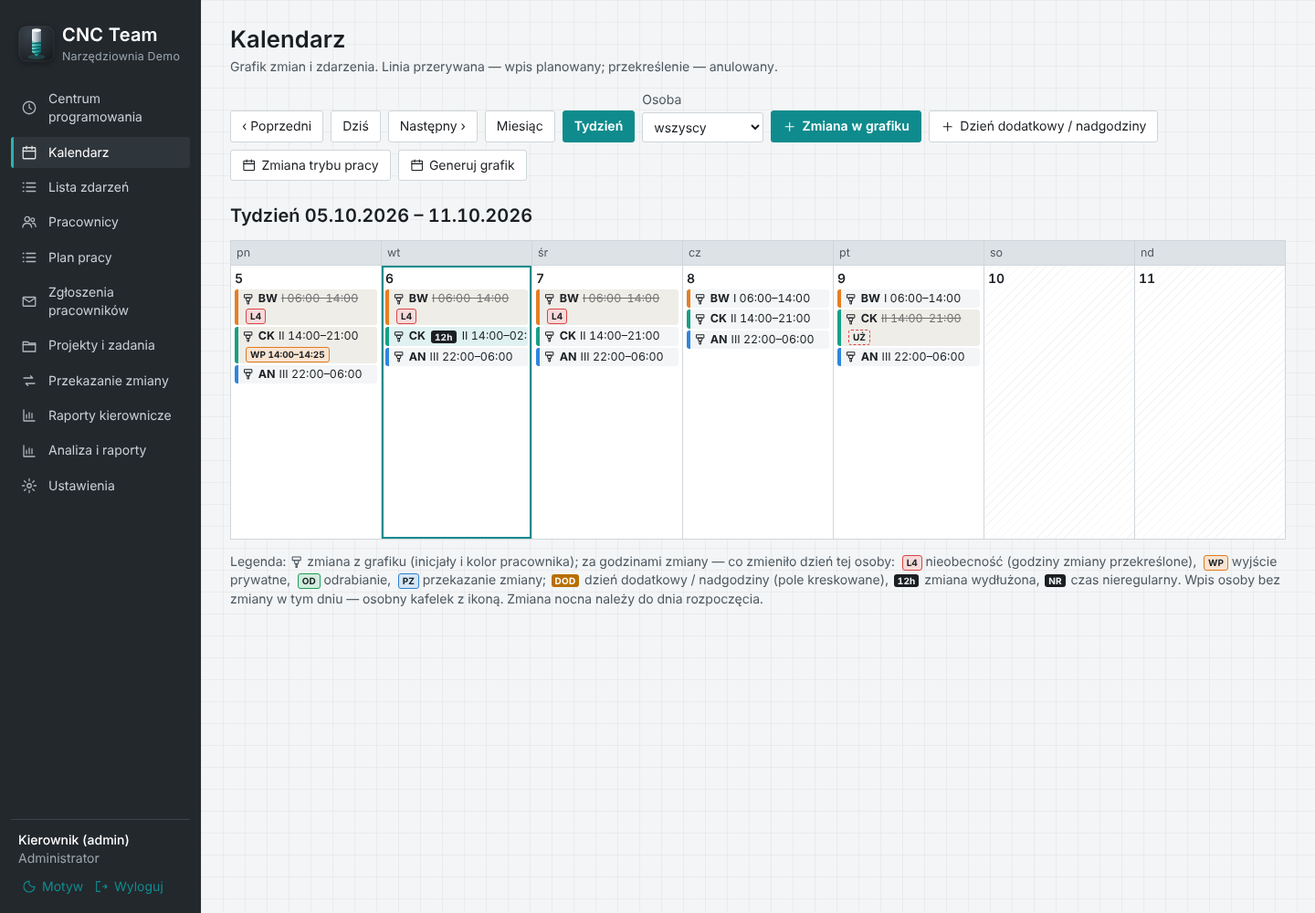
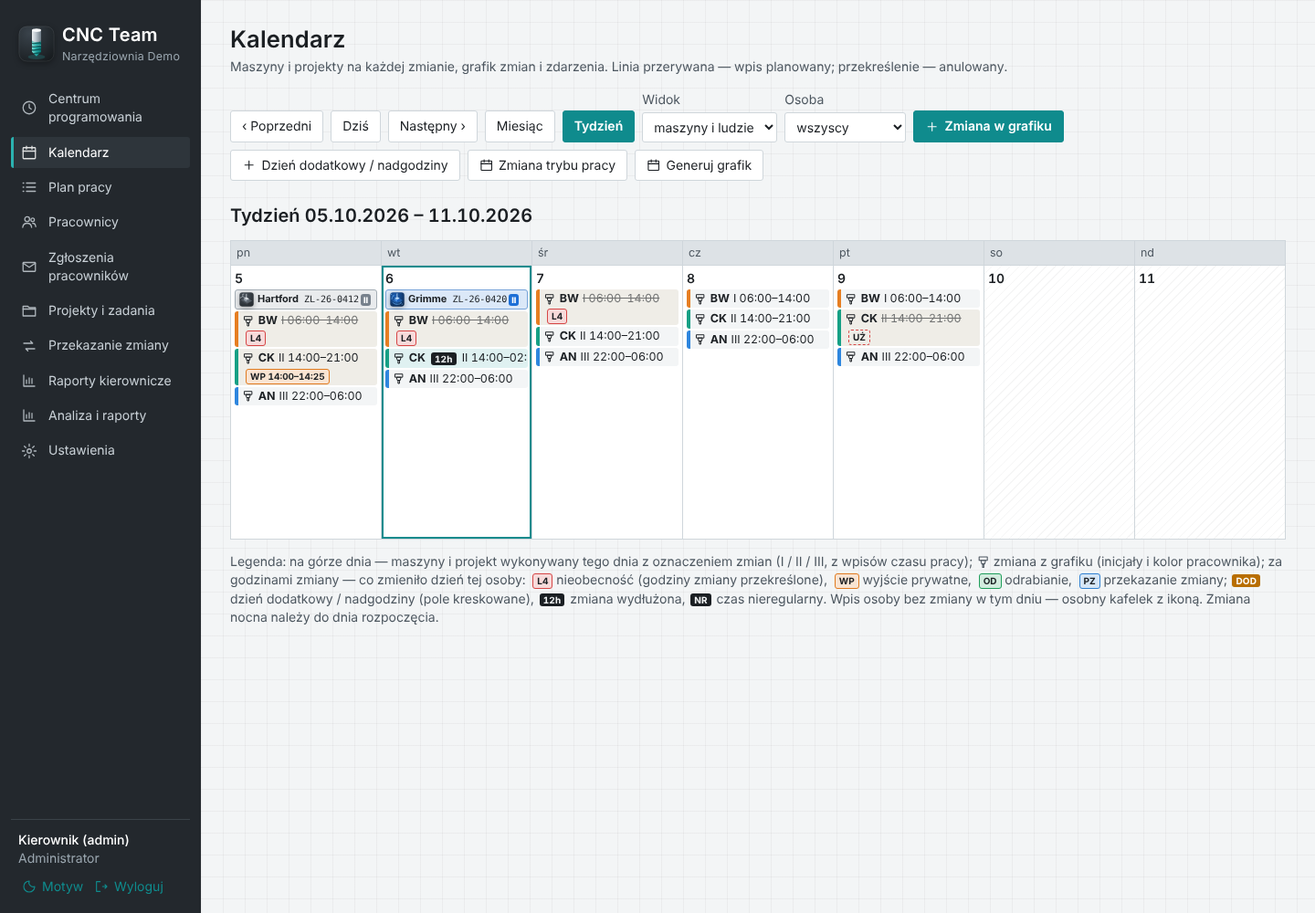
Wersja 0.11: nowa organizacja — projekty pod maszynami w Centrum programowania (data i zmiana rozpoczęcia), kalendarz maszyn i zmian, lista zdarzeń w Pracownikach, programista tylko zgłoszenia / kalendarz / plan pracy (serwer)
Claude-Session: https://claude.ai/code/session_01Mgo9RDb6yKEqWF3PSmGbbJ

diff --git a/public/app.js b/public/app.js
@@ -7,30 +7,33 @@ const isAdmin = () => S.me && S.me.role === 'admin';
 const isEmployee = () => S.me && S.me.role === 'employee';
 const isGuest = () => S.me && S.me.role === 'guest';
 
+const notEmp = () => S.me && S.me.role !== 'employee' && S.me.role !== 'guest';
 const NAV = [
-  ['dzisiaj', 'Centrum programowania', 'today', null],
+  ['dzisiaj', 'Centrum programowania', 'today', notEmp],
   ['kalendarz', 'Kalendarz', 'calendar', null],
-  ['zdarzenia', 'Lista zdarzeń', 'list', null],
-  ['pracownicy', 'Pracownicy', 'users', null],
-  ['zglos', 'Zgłoś kierownikowi', 'summons', () => isEmployee()],
   ['plan', 'Plan pracy', 'list', () => S.me && S.me.role !== 'guest'],
-  ['wyjscia', 'Wyjścia i odrabianie', 'exit', null],
-  ['zgloszenia', 'Zgłoszenia pracowników', 'summons', 'write'],
+  ['zglos', 'Zgłoś kierownikowi', 'summons', () => isEmployee()],
+  ['pracownicy', 'Pracownicy', 'users', notEmp],
+  ['zdarzenia', 'Lista zdarzeń', 'list', notEmp],
+  ['wyjscia', 'Wyjścia i odrabianie', 'exit', notEmp],
   ['absencje', 'Urlopy i absencje', 'leave', 'view.leave.all'],
-  ['projekty', 'Projekty i zadania', 'project', null],
-  ['maszyny', 'Tablica maszyn', 'board', null],
-  ['przekazanie', 'Przekazanie zmiany', 'handover', null],
+  ['zgloszenia', 'Zgłoszenia pracowników', 'summons', 'write'],
+  ['projekty', 'Projekty i zadania', 'project', notEmp],
+  ['maszyny', 'Tablica maszyn', 'board', notEmp],
+  ['przekazanie', 'Przekazanie zmiany', 'handover', notEmp],
   ['raporty', 'Raporty kierownicze', 'report', 'view.reports'],
   ['analiza', 'Analiza i raporty', 'report', () => S.me && (S.me.role === 'admin' || S.me.role === 'supervisor')],
   ['ustawienia', 'Ustawienia', 'settings', null],
 ];
+// Programista: tylko zgłoszenia, kalendarz i plan pracy (oraz własne konto) — reszta dla kierownika
+const EMP_ROUTES = new Set(['plan', 'kalendarz', 'zglos', 'ustawienia']);
 
 // Nie w menu bocznym: urlopy i wyjścia są zakładkami w „Pracownicy”; tablica maszyn powielała Centrum programowania.
-const RAIL_HIDDEN = new Set(['wyjscia', 'absencje', 'maszyny']);
-const NAV_PARENT = { wyjscia: 'pracownicy', absencje: 'pracownicy', zestaw: 'analiza', raport: 'analiza' };
+const RAIL_HIDDEN = new Set(['wyjscia', 'absencje', 'maszyny', 'zdarzenia']);
+const NAV_PARENT = { wyjscia: 'pracownicy', absencje: 'pracownicy', zdarzenia: 'pracownicy', zestaw: 'analiza', raport: 'analiza' };
 // Zakładki widoku Pracownicy (przełączane w tym samym menu)
 function peopleTabs(active) {
-  const tabs = [['pracownicy', 'Pracownicy', 'users'], ...(can('view.leave.all') ? [['absencje', 'Urlopy i absencje', 'leave']] : []), ['wyjscia', 'Wyjścia i odrabianie', 'exit']];
+  const tabs = [['pracownicy', 'Pracownicy', 'users'], ...(can('view.leave.all') ? [['absencje', 'Urlopy i absencje', 'leave']] : []), ['wyjscia', 'Wyjścia i odrabianie', 'exit'], ['zdarzenia', 'Lista zdarzeń', 'list']];
   return `<nav class="section-tabs" aria-label="Pracownicy">${tabs.map(([id, l, ic]) => `<a href="#/${id}" class="${id === active ? 'active' : ''}" ${id === active ? 'aria-current="page"' : ''}>${icon(ic)}<span>${esc(l)}</span></a>`).join('')}</nav>`;
 }
 
@@ -90,7 +93,7 @@ function renderLogin() {
 function renderShell() {
   const roleName = { admin: 'Administrator', supervisor: 'Przełożony', employee: 'Pracownik', guest: 'Gość' }[S.me.role];
   const tabs = isGuest() ? [['status', 'Status', 'project']]
-    : isEmployee() ? [['dzisiaj', 'Dzisiaj', 'today'], ['plan', 'Polecenia', 'list'], ['zglos', 'Zgłoś', 'summons'], ['projekty', 'Projekty', 'project']]
+    : isEmployee() ? [['plan', 'Polecenia', 'list'], ['kalendarz', 'Kalendarz', 'calendar'], ['zglos', 'Zgłoś', 'summons']]
       : [['dzisiaj', 'Dzisiaj', 'today'], ['plan', 'Plan pracy', 'list'], ['kalendarz', 'Kalendarz', 'calendar'], ['projekty', 'Projekty', 'project']];
   const nav = isGuest() ? [['status', 'Status projektów', 'project', null], ['ustawienia', 'Moje konto', 'settings', null]] : NAV.filter(n => !RAIL_HIDDEN.has(n[0]) && (typeof n[3] === 'function' ? n[3]() : (!n[3] || can(n[3]))));
   $('#app').innerHTML = `<div class="shell">
@@ -99,7 +102,7 @@ function renderShell() {
     <div class="scrim" id="scrim" hidden></div>
     <nav class="rail" id="rail" aria-label="Menu główne">
     <div class="brand">${appLogo(40)}<div>CNC Team<small>${esc(S.boot.settings.company_name || '')}</small></div></div>
-    ${nav.map(([id, label, ic]) => `<a href="#/${id}" data-nav="${id}">${icon(ic)}<span>${esc(label)}</span></a>`).join('')}
+    ${nav.map(([id, label, ic]) => `<a href="#/${id}" data-nav="${id}">${icon(ic)}<span>${esc(id === 'ustawienia' && !isAdmin() ? 'Moje konto' : label)}</span></a>`).join('')}
     <div class="who"><strong>${esc(S.me.display_name)}</strong>${esc(roleName)}<br>
       <button type="button" id="themeBtn" class="link">${icon('theme')}Motyw</button>
       <button type="button" id="installBtn" class="link ${document.documentElement.dataset.installable ? '' : 'mobile-only'}">${icon('download')}Skrót na telefonie</button>
@@ -128,8 +131,9 @@ function renderShell() {
 const VIEWS = {};
 async function route() {
   if (!S.me) return;
-  let [name, ...rest] = (location.hash.replace(/^#\/?/, '').split('?')[0] || (isGuest() ? 'status' : 'dzisiaj')).split('/');
+  let [name, ...rest] = (location.hash.replace(/^#\/?/, '').split('?')[0] || (isGuest() ? 'status' : isEmployee() ? 'plan' : 'dzisiaj')).split('/');
   if (isGuest() && name !== 'ustawienia') name = 'status';
+  if (isEmployee() && !EMP_ROUTES.has(name)) name = 'plan';
   $$('[data-nav]').forEach(a => a.classList.toggle('active', a.dataset.nav === (NAV_PARENT[name] || name)));
   const navItem = isGuest() ? (name === 'status' ? ['status', 'Status projektów'] : ['ustawienia', 'Moje konto']) : NAV.find(n => n[0] === name);
   if ($('#appbarTitle')) $('#appbarTitle').textContent = navItem ? navItem[1] : 'CNC Team';
@@ -157,8 +161,9 @@ VIEWS.dzisiaj = async (main) => {
   const alerts = (d.alerts || []).map(a => `<li>${icon('alert')} ${esc(a.message)}${a.remaining_min != null ? ` <b>${hm(a.remaining_min)}</b> pozostało, zmian do końca miesiąca: ${a.remaining_shifts ?? '—'}` : ''}</li>`).join('');
   const reminders = (d.leave_reminders || []).map(r => `<li>${r.level === 'ostrzezenie' ? tag('ostrzeżenie', 'warn', 'alert') : tag('przypomnienie', 'accent')} ${esc(r.name)}: pula ${r.year}, saldo ${hm(r.balance_min)}. <span class="muted">${esc(r.text)}</span></li>`).join('');
   main.innerHTML = head('Centrum programowania', `Dzisiaj: ${plDate(d.today)} · strefa Europe/Warsaw`) + `
-    <div class="machines">${d.board.map(plate).join('')}</div>
-    <div class="cols" style="margin-top:var(--sp-4)">
+    <div class="machines">${d.board.map(b => `<div class="machine-col">${plate(b)}${isAdmin() ? `<p class="small no-print" style="margin:4px 0 0"><a href="#/maszyny">${icon('board')}Zmień kartę maszyny (projekt, etap, osoba)</a></p>` : ''}${b.project_full ? projectCard(b.project_full, { start: b.project_start, heading: `Aktualnie na ${b.machine.name}` }) : `<section class="panel"><p class="muted small">Brak projektu na tej maszynie.</p></section>`}</div>`).join('')}</div>
+    <h2 class="section-h">Pozostałe informacje</h2>
+    <div class="cols">
       <section class="panel"><h3>Na zmianie dziś</h3><ul class="plain">${shifts || '<li class="muted">Brak zmian w grafiku.</li>'}</ul></section>
       <section class="panel"><h3>Nieobecności dziś</h3><ul class="plain">${abs || '<li class="muted">Brak nieobecności.</li>'}</ul></section>
       ${d.my_orders ? `<section class="panel"><h3>Moje polecenia na dziś</h3><ol class="orders">${d.my_orders.map(o => orderCard(o, { mine: true })).join('') || '<li class="muted small empty-orders">Brak poleceń na dziś.</li>'}</ol>
@@ -209,10 +214,18 @@ VIEWS.kalendarz = async (main) => {
   if (mode === 'tydzien') { from = addDays(anchor, 1 - weekday(anchor)); to = addDays(from, 6); }
   else { from = addDays(`${anchor.slice(0, 7)}-01`, 1 - weekday(`${anchor.slice(0, 7)}-01`)); to = addDays(lastDay(anchor.slice(0, 7)), 7 - weekday(lastDay(anchor.slice(0, 7)))); }
   const qs = `from=${from}&to=${to}${empF ? `&employee_id=${empF}` : ''}`;
-  const [sched, events] = await Promise.all([api(`/schedule?${qs}`), api(`/events?${qs}`)]);
+  const view = ['maszyny', 'ludzie'].includes(q.get('widok')) ? q.get('widok') : 'wszystko';
+  const [sched, events, mcal] = await Promise.all([api(`/schedule?${qs}`), api(`/events?${qs}`), view !== 'ludzie' ? api(`/calendar/machines?from=${from}&to=${to}`) : Promise.resolve([])]);
+  const machineRows = (d) => S.boot.machines.map(m => {
+    const items = mcal.filter(x => x.date === d && x.machine_id === m.id);
+    if (!items.length) return '';
+    const th = machineTheme(m);
+    const tip = items.map(i => `${i.order_no} ${i.part_no}: ${i.shifts.map(sh => `zmiana ${sh.short} (${sh.employees.map(id => { const e = S.emp.get(id); return e ? `${e.first_name} ${e.last_name}` : ''; }).join(', ')})`).join('; ')}`).join(' | ');
+    return `<div class="mc-row theme-${th}" title="${esc(`${m.name}: ${tip}`)}">${machineEmblem(th, 16)}<b>${esc(m.name)}</b>${items.map(i => `<span class="mc-item"><span class="mono">${esc(i.order_no)}</span>${i.shifts.map(sh => `<i>${esc(sh.short)}</i>`).join('')}</span>`).join('')}</div>`;
+  }).join('');
   const holidays = new Map(S.boot.holidays.map(h => [h.date, h.name]));
   const tpl = new Map(S.boot.shift_templates.map(t => [t.id, t]));
-  const link = (o) => { const p = new URLSearchParams({ tryb: mode, data: anchor, osoba: empF, ...o }); return `#/kalendarz?${p}`; };
+  const link = (o) => { const p = new URLSearchParams({ tryb: mode, data: anchor, osoba: empF, widok: q.get('widok') || 'wszystko', ...o }); return `#/kalendarz?${p}`; };
   const step = mode === 'tydzien' ? 7 : 0;
   const prev = mode === 'tydzien' ? addDays(anchor, -7) : `${addMonths(anchor.slice(0, 7), -1)}-01`;
   const next = mode === 'tydzien' ? addDays(anchor, step) : `${addMonths(anchor.slice(0, 7), 1)}-01`;
@@ -222,21 +235,24 @@ VIEWS.kalendarz = async (main) => {
     const daySched = sched.filter(s => s.work_date === d);
     const dayEv = events.filter(e => e.date <= d && (e.end_date || e.date) >= d);
     const off = holidays.has(d) || weekday(d) >= 6;
-    const empty = !daySched.length && !dayEv.length && !holidays.has(d) && d !== S.me.today;
+    const empty = !daySched.length && !dayEv.length && !mcal.some(x => x.date === d) && !holidays.has(d) && d !== S.me.today;
     cells += `<div class="day ${mode === 'miesiac' && d.slice(0, 7) !== anchor.slice(0, 7) ? 'other' : ''} ${off ? 'off' : ''} ${d === S.me.today ? 'today' : ''} ${empty ? 'empty-day' : ''}">
       <div class="num" data-dow="${DOW[weekday(d) - 1]}, ${plDate(d)}"><span class="desk-only">${Number(d.slice(8))}</span>${holidays.has(d) ? `<em>${esc(holidays.get(d))}</em>` : ''}</div>
-      ${daySched.map(s => shiftChip(s, tpl, dayEv.filter(ev => ev.employee_id === s.employee_id))).join('')}
-      ${dayEv.filter(ev => !daySched.some(s => s.employee_id === ev.employee_id)).map(ev => { const e = S.emp.get(ev.employee_id); return `<div class="chip ev ${ev.status === 'anulowana' || ev.status === 'anulowane' ? 'cancel' : ''} ${ev.status === 'planowana' || ev.status === 'planowane' ? 'plan' : ''}" style="border-left-color:${esc(e?.color || '#888')}" title="${esc(ev.label)} ${esc(ev.status || '')}">${icon(ev.icon && ICON_PATHS[ev.icon] ? ev.icon : EVENT_ICON[ev.kind])}<b>${esc(initials(e))}</b> ${esc(ev.short || '')} ${esc(ev.time || ev.label)}</div>`; }).join('')}
+      ${view !== 'ludzie' ? machineRows(d) : ''}
+      ${view !== 'maszyny' ? daySched.map(s => shiftChip(s, tpl, dayEv.filter(ev => ev.employee_id === s.employee_id))).join('') : ''}
+      ${view === 'maszyny' ? '' : ''}${dayEv.filter(ev => view !== 'maszyny' && !daySched.some(s => s.employee_id === ev.employee_id)).map(ev => { const e = S.emp.get(ev.employee_id); return `<div class="chip ev ${ev.status === 'anulowana' || ev.status === 'anulowane' ? 'cancel' : ''} ${ev.status === 'planowana' || ev.status === 'planowane' ? 'plan' : ''}" style="border-left-color:${esc(e?.color || '#888')}" title="${esc(ev.label)} ${esc(ev.status || '')}">${icon(ev.icon && ICON_PATHS[ev.icon] ? ev.icon : EVENT_ICON[ev.kind])}<b>${esc(initials(e))}</b> ${esc(ev.short || '')} ${esc(ev.time || ev.label)}</div>`; }).join('')}
     </div>`;
   }
-  main.innerHTML = head('Kalendarz', 'Grafik zmian i zdarzenia. Linia przerywana — wpis planowany; przekreślenie — anulowany.',
+  main.innerHTML = head('Kalendarz', 'Maszyny i projekty na każdej zmianie, grafik zmian i zdarzenia. Linia przerywana — wpis planowany; przekreślenie — anulowany.',
     `<a class="btn" href="${link({ data: prev })}">‹ Poprzedni</a><a class="btn" href="${link({ data: S.me.today })}">Dziś</a><a class="btn" href="${link({ data: next })}">Następny ›</a>
      <a class="btn ${mode === 'miesiac' ? 'primary' : ''}" href="${link({ tryb: 'miesiac' })}">Miesiąc</a><a class="btn ${mode === 'tydzien' ? 'primary' : ''}" href="${link({ tryb: 'tydzien' })}">Tydzień</a>
+     <label class="field">Widok<select id="calView"><option value="wszystko" ${view === 'wszystko' ? 'selected' : ''}>maszyny i ludzie</option><option value="maszyny" ${view === 'maszyny' ? 'selected' : ''}>tylko maszyny</option><option value="ludzie" ${view === 'ludzie' ? 'selected' : ''}>tylko ludzie</option></select></label>
      <label class="field">Osoba<select id="calEmp"><option value="">wszyscy</option>${empOptions().map(([v, l]) => `<option value="${v}" ${String(v) === empF ? 'selected' : ''}>${esc(l)}</option>`).join('')}</select></label>
      ${isAdmin() ? btn('addShift', 'Zmiana w grafiku') + btn('extraShift', 'Dzień dodatkowy / nadgodziny', 'plus', '') + btn('bulkMode', 'Zmiana trybu pracy', 'calendar', '') + btn('genShift', 'Generuj grafik', 'calendar', '') : ''}`) +
     `<h2>${esc(title)}</h2><div class="cal ${mode === 'tydzien' ? 'week' : ''}">${cells}</div>
-     <p class="small muted">Legenda: ${icon('spindle')} zmiana z grafiku (inicjały i kolor pracownika); za godzinami zmiany — co zmieniło dzień tej osoby: <span class="ev-tag tone-l4">L4</span> nieobecność (godziny zmiany przekreślone), <span class="ev-tag tone-force">WP</span> wyjście prywatne, <span class="ev-tag tone-uw">OD</span> odrabianie, <span class="ev-tag tone-event">PZ</span> przekazanie zmiany; <span class="mode-badge dod">DOD</span> dzień dodatkowy / nadgodziny (pole kreskowane), <span class="mode-badge">12h</span> zmiana wydłużona, <span class="mode-badge">NR</span> czas nieregularny. Wpis osoby bez zmiany w tym dniu — osobny kafelek z ikoną. Zmiana nocna należy do dnia rozpoczęcia.</p>`;
+     <p class="small muted">Legenda: na górze dnia — maszyny i projekt wykonywany tego dnia z oznaczeniem zmian (I / II / III, z wpisów czasu pracy); ${icon('spindle')} zmiana z grafiku (inicjały i kolor pracownika); za godzinami zmiany — co zmieniło dzień tej osoby: <span class="ev-tag tone-l4">L4</span> nieobecność (godziny zmiany przekreślone), <span class="ev-tag tone-force">WP</span> wyjście prywatne, <span class="ev-tag tone-uw">OD</span> odrabianie, <span class="ev-tag tone-event">PZ</span> przekazanie zmiany; <span class="mode-badge dod">DOD</span> dzień dodatkowy / nadgodziny (pole kreskowane), <span class="mode-badge">12h</span> zmiana wydłużona, <span class="mode-badge">NR</span> czas nieregularny. Wpis osoby bez zmiany w tym dniu — osobny kafelek z ikoną. Zmiana nocna należy do dnia rozpoczęcia.</p>`;
   $('#calEmp').onchange = (e) => { location.hash = link({ osoba: e.target.value }); };
+  $('#calView').onchange = (e) => { location.hash = link({ widok: e.target.value }); };
   on('addShift', () => shiftForm(anchor));
   on('genShift', () => generateForm(anchor));
   on('extraShift', () => extraShiftForm(anchor));

diff --git a/public/views-projects.js b/public/views-projects.js
@@ -17,14 +17,7 @@ VIEWS.projekty = async (main, rest) => {
   const sel = (name, label, opts) => `<label class="field">${label}<select name="${name}"><option value="">wszystkie</option>${opts.map(([v, l]) => `<option value="${esc(v)}" ${String(v) === (q.get(name) || '') ? 'selected' : ''}>${esc(l)}</option>`).join('')}</select></label>`;
   main.innerHTML = head('Projekty i zadania', 'Postęp wynika z zakończonych zadań o jawnych wagach, nie z upływu czasu.', isAdmin() ? btn('addPrj', 'Nowy projekt') : '') +
     `<form class="panel toolbar" id="pf">${sel('machine_id', 'Maszyna', machineOptions())}${sel('status', 'Status', [['aktywny', 'aktywny'], ['wstrzymany', 'wstrzymany'], ['zakonczony', 'zakończony'], ['anulowany', 'anulowany']])}${sel('employee_id', 'Osoba', empOptions(false))}<button class="primary">Filtruj</button></form>
-    <div class="cols">${list.map(p => `<article class="panel">
-      <div class="page-head" style="margin:0 0 var(--sp-2)"><div><h3 style="margin:0"><a href="#/projekty/${encodeURIComponent(p.id)}">${projectRef(p)}</a></h3><span class="small muted">${esc(p.id)} · ${esc(p.part_family || 'bez rodziny')}</span></div>
-      </div>
-      ${bars(p)}${delayLine(p.schedule)}
-      <p class="small" style="margin:var(--sp-2) 0 0">Termin: <b>${plDate(p.due_date)}</b> · priorytet ${p.priority} · ${p.nc_program ? `<span class="mono">${esc(p.nc_program)} rev ${esc(p.nc_rev)}</span>` : 'brak programu NC'}
-      ${p.blocked ? `<br>${tag(p.block_reason, 'danger', 'block')}` : ''}${p.tasks.some(t => t.status === 'zablokowane') ? `<br>${tag('zablokowane zadanie', 'warn', 'alert')}` : ''}</p>
-      <p class="small" style="margin:var(--sp-2) 0 0">${p.responsible_ids.map(id => person(id, { name: false })).join(' ')} ${esc(p.status)}</p>
-    </article>`).join('') || '<div class="empty">Brak projektów.</div>'}</div>`;
+    <div class="cols">${list.map(p => projectCard(p)).join('') || '<div class="empty">Brak projektów.</div>'}</div>`;
   $('#pf').onsubmit = (e) => { e.preventDefault(); location.hash = `#/projekty?${new URLSearchParams([...new FormData(e.target)].filter(([, v]) => v))}`; };
   on('addPrj', () => projectForm());
 };
@@ -51,6 +44,19 @@ function projectForm(p = {}) {
       return r;
     },
   });
+}
+
+// Karta projektu — ta sama w „Projekty i zadania” i pod maszyną w Centrum programowania; start = kiedy i na której zmianie się zaczął
+function projectCard(p, { start = null, heading = '' } = {}) {
+  const st = start ? `<p class="small start-line">${icon('calendar')} Rozpoczęty: <b>${DOW[weekday(start.date) - 1]} ${plDate(start.date)}</b>${start.shift ? ` · zmiana <b>${esc(start.shift.short || '')}</b> ${esc(start.shift.start)}–${esc(start.shift.end)}` : start.source === 'czas' ? ' · poza grafikiem' : ''}${start.employee_id ? ` · ${person(start.employee_id)}` : ''}${start.source === 'projekt' ? ' <span class="muted">(data rozpoczęcia z projektu — brak wpisów czasu)</span>' : ''}</p>` : '';
+  return `<article class="panel">${heading ? `<p class="small muted card-kicker">${esc(heading)}</p>` : ''}
+      <div class="page-head" style="margin:0 0 var(--sp-2)"><div><h3 style="margin:0"><a href="#/projekty/${encodeURIComponent(p.id)}">${projectRef(p)}</a></h3><span class="small muted">${esc(p.id)} · ${esc(p.part_family || 'bez rodziny')}</span></div>
+      </div>
+      ${st}${bars(p)}${delayLine(p.schedule)}
+      <p class="small" style="margin:var(--sp-2) 0 0">Termin: <b>${plDate(p.due_date)}</b> · priorytet ${p.priority} · ${p.nc_program ? `<span class="mono">${esc(p.nc_program)} rev ${esc(p.nc_rev)}</span>` : 'brak programu NC'}
+      ${p.blocked ? `<br>${tag(p.block_reason, 'danger', 'block')}` : ''}${p.tasks.some(t => t.status === 'zablokowane') ? `<br>${tag('zablokowane zadanie', 'warn', 'alert')}` : ''}</p>
+      <p class="small" style="margin:var(--sp-2) 0 0">${p.responsible_ids.map(id => person(id, { name: false })).join(' ')} ${esc(p.status)}</p>
+    </article>`;
 }
 
 async function projectDetailView(main, id) {

diff --git a/server/domain/projects.js b/server/domain/projects.js
@@ -391,6 +391,38 @@ function board(db) {
   });
 }
 
+// Początek projektu: pierwszy wpis czasu pracy — dzień, osoba i zmiana z grafiku (gdy brak wpisów — data rozpoczęcia z projektu)
+function projectStart(db, id) {
+  const e = db.get(`SELECT e.work_date, e.employee_id FROM task_time_entries e JOIN tasks t ON t.id = e.task_id WHERE t.project_id = ? ORDER BY e.work_date, e.id LIMIT 1`, id);
+  if (!e) { const p = db.get('SELECT start_date FROM projects WHERE id=?', id); return p ? { date: p.start_date, source: 'projekt' } : null; }
+  const s = db.get(`SELECT s.start_at, s.end_at, t.name, t.short FROM schedule_entries s LEFT JOIN shift_templates t ON t.id = s.shift_template_id
+    WHERE s.employee_id = ? AND s.work_date = ? ORDER BY s.start_at LIMIT 1`, e.employee_id, e.work_date);
+  return { date: e.work_date, employee_id: e.employee_id, source: 'czas',
+    shift: s ? { name: s.name, short: s.short, start: T.utcToLocal(s.start_at).time, end: T.utcToLocal(s.end_at).time } : null };
+}
+
+// Kalendarz maszyn: który projekt był wykonywany na której maszynie danego dnia i na której zmianie (z wpisów czasu pracy i grafiku)
+function machineCalendar(db, from, to) {
+  const rows = db.all(`SELECT e.work_date d, p.machine_id, t.project_id, p.order_no, p.part_no, e.employee_id, SUM(e.active_min + e.verify_min + e.rework_min) w,
+      (SELECT s.shift_template_id FROM schedule_entries s WHERE s.employee_id = e.employee_id AND s.work_date = e.work_date ORDER BY s.start_at LIMIT 1) tpl
+    FROM task_time_entries e JOIN tasks t ON t.id = e.task_id JOIN projects p ON p.id = t.project_id
+    WHERE e.work_date BETWEEN ? AND ? AND p.machine_id IS NOT NULL GROUP BY e.work_date, p.machine_id, t.project_id, e.employee_id ORDER BY e.work_date`, from, to);
+  const tpls = new Map(db.all('SELECT id, short, start_time FROM shift_templates').map(t => [t.id, t]));
+  const out = new Map();
+  for (const r of rows) {
+    const key = `${r.d}|${r.machine_id}|${r.project_id}`;
+    const item = out.get(key) || { date: r.d, machine_id: r.machine_id, project_id: r.project_id, order_no: r.order_no, part_no: r.part_no, shifts: [] };
+    const t = tpls.get(r.tpl);
+    const short = t ? t.short : 'poza grafikiem';
+    let sh = item.shifts.find(x => x.short === short);
+    if (!sh) { sh = { short, start: t ? t.start_time : '99', employees: [], minutes: 0 }; item.shifts.push(sh); }
+    if (!sh.employees.includes(r.employee_id)) sh.employees.push(r.employee_id);
+    sh.minutes += r.w || 0;
+    out.set(key, item);
+  }
+  return [...out.values()].map(i => ({ ...i, shifts: i.shifts.sort((a, b) => a.start.localeCompare(b.start)) }));
+}
+
 function updateBoard(db, user, machineId, body) {
   if (!db.get('SELECT 1 FROM machines WHERE id=?', machineId)) throw notFound();
   const d = {
@@ -489,5 +521,5 @@ function guestStatus(db, id) {
 
 module.exports = {
   CAUSES, saveMachine, saveTaskType, saveProject, setNcRevision, projectDetail, listProjects, createTask, updateTask, changeTaskPlan,
-  addTimeEntry, taskTimes, addExplanation, board, updateBoard, createHandover, listHandovers, addManualTechData, ID_RE, progress, scheduleStatus, scheduleSettings, guestStatus, projectHours, overtimeWork,
+  addTimeEntry, taskTimes, addExplanation, board, updateBoard, createHandover, listHandovers, addManualTechData, ID_RE, progress, scheduleStatus, scheduleSettings, guestStatus, projectHours, overtimeWork, projectStart, machineCalendar,
 };

diff --git a/server/routes.js b/server/routes.js
@@ -424,13 +424,24 @@ function buildRoutes() {
   });
 
   // ---------- Pulpit „Dzisiaj” ----------
+  add('GET', '/calendar/machines', ({ db, user, query }) => {
+    requireCap(user, 'view.calendar');
+    const from = query.from || `${T.today().slice(0, 7)}-01`, to = query.to || T.lastDayOfMonth(from.slice(0, 7));
+    T.assertDate(from); T.assertDate(to);
+    if (T.dateRange(from, to).length > 62) throw bad('Zakres do 62 dni.');
+    // programista widzi temat i zmianę, bez godzin pracy
+    return P.machineCalendar(db, from, to).map(i => user.role === 'employee' ? { ...i, shifts: i.shifts.map(({ minutes, ...x }) => x) } : i);
+  });
   add('GET', '/today', ({ db, user }) => {
     const d = T.today();
     const shifts = People.listSchedule(db, T.addDays(d, -1), d).filter(s => s.work_date === d || s.end_at > T.localToUtc(d, '00:00'))
       .map(s => ({ employee_id: s.employee_id, work_date: s.work_date, start: s.start_local, end: s.end_local, shift_template_id: s.shift_template_id }));
     const absToday = Abs.listAbsences(db, { from: d, to: d }).filter(a => a.status !== 'anulowana').map(a => redactAbsence(user, a));
     const vis = visibleProjects(db, user);
-    const out = { today: d, shifts, absences: absToday, board: P.board(db), handovers: P.listHandovers(db, {}).filter(h => !vis || vis.has(h.project_id)).slice(0, 5) };
+    // projekt na maszynie: pełny licznik jak w „Projekty i zadania” + kiedy i na której zmianie się zaczął
+    const boardFull = P.board(db).map(b => (b.project && user.role !== 'employee'
+      ? { ...b, project_full: P.projectDetail(db, b.project.id, { withTimes: false, withHours: can(user, 'view.efficiency') }), project_start: P.projectStart(db, b.project.id) } : b));
+    const out = { today: d, shifts, absences: absToday, board: boardFull, handovers: P.listHandovers(db, {}).filter(h => !vis || vis.has(h.project_id)).slice(0, 5) };
     if (user.role === 'employee') {
       out.my_orders = O.myOrders(db, user, { from: d, to: d });
       out.my_requests = Req.listRequests(db, { employeeId: user.employee_id, limit: 5 }).map(r => ({ id: r.id, kind: r.kind, date_from: r.date_from, date_to: r.date_to, status: r.status, decision_note: r.decision_note }));

diff --git a/test/requests.test.js b/test/requests.test.js
@@ -134,24 +134,15 @@ test('gość widzi wyłącznie status przypisanych projektów w realizacji — b
   } finally { srv.close(); }
 });
 
-test('pracownik widzi tylko projekty, w których pracuje (lub z tablicy maszyn); bez wkładu innych osób', async () => {
+test('programista: tylko zgłoszenia, kalendarze i plan pracy — projekty i pozostałe dane tylko dla kierownika', async () => {
   const w = world();
   const p1 = P.saveProject(w.db, w.admin, { order_no: 'ZL-1', part_no: 'DET-1', part_rev: 'A' });
   P.createTask(w.db, w.admin, { project_id: p1, type_id: w.tt.NX, title: 'NX', assignee_id: w.e });
-  const p2 = P.saveProject(w.db, w.admin, { order_no: 'ZL-2', part_no: 'DET-2', part_rev: 'A', responsible_ids: [w.e2] });
-  const p3 = P.saveProject(w.db, w.admin, { order_no: 'ZL-3', part_no: 'DET-3', part_rev: 'A' });
-  P.updateBoard(w.db, w.admin, 'M-GRIMME', { project_id: p3, stage: 'obróbka' });
   const { srv, base } = await startServer(w.db);
   try {
     const jan = client(base); await jan.login('jan');
-    const list = (await jan.call('GET', '/projects')).data;
-    assert.deepEqual(list.map(p => p.id).sort(), [p1, p3].sort());
-    assert.ok(list.every(p => p.contributions === undefined));
-    assert.equal((await jan.call('GET', `/projects/${p2}`)).status, 403);
-    const adm = client(base); await adm.login('admin');
-    await adm.call('PUT', '/settings/employee_sees_all_projects', { value: 'tak' });
-    assert.equal((await jan.call('GET', '/projects')).data.length, 3);
-    assert.equal((await adm.call('PUT', '/settings/employee_sees_all_projects', { value: 'moze' })).status, 400);
+    for (const p of ['/projects', `/projects/${p1}`, '/board', '/handovers', '/employees', '/today', '/exits', '/absences']) assert.equal((await jan.call('GET', p)).status, 403, p);
+    for (const p of ['/bootstrap', '/schedule', '/events', '/calendar/machines', '/work-orders/my', '/requests', '/balances', '/me']) assert.equal((await jan.call('GET', p)).status, 200, p);
   } finally { srv.close(); }
 });
 

diff --git a/server/app.js b/server/app.js
@@ -31,6 +31,11 @@ function compile(pattern) {
 // opts.trustProxy → aplikacja stoi za firmowym serwerem pośredniczącym (reverse proxy) z HTTPS:
 // adres klienta z X-Forwarded-For (do blokady logowania), cookie Secure gdy X-Forwarded-Proto = https.
 const GUEST_ALLOWED = new Set(['GET /me', 'POST /login', 'POST /logout', 'POST /me/password', 'GET /guest/projects']);
+// Programista: tylko zgłoszenia do kierownika, kalendarze (grafik, zdarzenia, maszyny) i własny plan pracy — reszta dla kierownika.
+const EMPLOYEE_ALLOWED = new Set(['GET /me', 'POST /login', 'POST /logout', 'POST /me/password', 'GET /bootstrap',
+  'GET /schedule', 'GET /events', 'GET /calendar/machines',
+  'GET /work-orders/my', 'POST /work-orders/:id/ack',
+  'GET /requests', 'POST /requests', 'POST /requests/:id/withdraw', 'GET /balances']);
 // Adres bez portu: IIS (ARR) dopisuje do X-Forwarded-For „adres:port” — port zmienia się przy każdym połączeniu.
 const normIp = (x) => {
   let a = String(x || '').trim();
@@ -96,6 +101,7 @@ function createApp(db, opts = {}) {
       if (!route.public && !user) throw new HttpError(401, 'Wymagane zalogowanie.');
       // Gość ma dostęp wyłącznie do statusu swoich projektów — każda inna trasa jest zablokowana.
       if (user && user.role === 'guest' && !GUEST_ALLOWED.has(`${req.method} ${route.path}`)) throw new HttpError(403, 'Konto gościa ma dostęp tylko do statusu projektów.');
+      if (user && user.role === 'employee' && !EMPLOYEE_ALLOWED.has(`${req.method} ${route.path}`)) throw new HttpError(403, 'Programista ma dostęp do zgłoszeń, kalendarza i planu pracy — pozostałe dane są dla kierownika.');
       // Nagłówki proxy honorowane tylko od zaufanego proxy (lokalnie lub z listy CNC_PROXY_IPS); adres klienta = ostatni wpis
       // X-Forwarded-For (dopisany przez nasze proxy) — wcześniejsze wpisy może podać sam klient.
       const peer = req.socket.remoteAddress || '';

diff --git a/test/api.test.js b/test/api.test.js
@@ -69,11 +69,15 @@ test('odmowa dostępu pracownika do raportów, API i eksportów; przełożony be
     // pracownik: tylko własne saldo, kalendarz bez szczegółów kategorii i notatek
     const bal = await emp.call('GET', '/balances?month=2026-10');
     assert.deepEqual(bal.data.map(b => b.employee_id), [e]);
-    const exits = await emp.call('GET', `/exits?month=2026-10&employee_id=${e2}`);
-    assert.ok(exits.data.every(x => x.employee_id === e), 'brak cudzych wyjść');
-    const abs = await emp.call('GET', '/absences?from=2026-10-01&to=2026-10-31');
-    const txt = JSON.stringify(abs.data);
-    assert.ok(!txt.includes('NOTATKA') && !txt.includes('Chorobowe') && txt.includes('Nieobecność'));
+    // programista: tylko zgłoszenia, kalendarze i plan pracy — listy wyjść, nieobecności, projektów, pracowników → 403
+    for (const p of [`/exits?month=2026-10`, '/absences?from=2026-10-01&to=2026-10-31', '/projects', '/employees', '/board', '/handovers', '/today', '/makeups']) {
+      assert.equal((await emp.call('GET', p)).status, 403, `pracownik: GET ${p}`);
+    }
+    const ev = await emp.call('GET', '/events?from=2026-10-01&to=2026-10-31');
+    const txt = JSON.stringify(ev.data);
+    assert.equal(ev.status, 200);
+    assert.ok(!txt.includes('NOTATKA') && !txt.includes('Chorobowe') && txt.includes('Nieobecność'), 'w kalendarzu ogólna etykieta, bez notatek');
+    assert.equal((await emp.call('GET', '/calendar/machines?from=2026-10-01&to=2026-10-31')).status, 200);
     const boot = JSON.stringify((await emp.call('GET', '/bootstrap')).data);
     assert.ok(!boot.includes('hr_reference') && !boot.includes('employment_start'));
 

diff --git a/public/app.css b/public/app.css
@@ -529,3 +529,15 @@ p .mode-badge { display: inline-block; margin: 0 2px; }
 .b-note p { margin: 0 0 4px; }
 @media (max-width: 700px) { .b-facts { grid-template-columns: 1fr; } .b-facts dt { margin-top: 4px; } }
 @media print { .b-topic { break-inside: avoid; } .b-num { background: none; color: #000; border: 2px solid #000; } .b-note { -webkit-print-color-adjust: exact; print-color-adjust: exact; } }
+
+/* Centrum programowania: maszyna + aktualny projekt pod nią */
+.machine-col { display: flex; flex-direction: column; gap: var(--sp-3); min-width: 0; }
+.machine-col > .panel + .panel { margin-top: 0; }
+.card-kicker { margin: 0 0 4px; text-transform: uppercase; letter-spacing: .05em; font-weight: 700; }
+.start-line { margin: 0 0 var(--sp-2); padding: 6px 10px; border-radius: var(--r-sm); background: var(--c-paper); border: 1px solid var(--c-line); }
+.section-h { margin: var(--sp-5, 28px) 0 var(--sp-3); font-size: 1.1rem; color: var(--c-ink-soft); text-transform: uppercase; letter-spacing: .05em; }
+/* Kalendarz: maszyny i projekty w danym dniu */
+.mc-row { display: flex; align-items: center; gap: 4px; flex-wrap: wrap; font-size: 11px; padding: 2px 4px; border-radius: var(--r-sm); background: color-mix(in srgb, var(--m-mid, #8a949e) 16%, var(--c-surface)); border: 1px solid color-mix(in srgb, var(--m-mid, #8a949e) 50%, var(--c-line)); }
+.mc-row b { font-weight: 700; margin-right: 2px; }
+.mc-item { display: inline-flex; align-items: center; gap: 2px; }
+.mc-item i { font-style: normal; font-size: 9px; font-weight: 800; padding: 0 3px; border-radius: 3px; background: var(--m-mid, #8a949e); color: #fff; }

diff --git a/test/orders.test.js b/test/orders.test.js
@@ -77,14 +77,13 @@ test('dostęp: programista widzi tylko swoje i tylko potwierdza przeczytanie; zm
     assert.equal((await jan('PATCH', `/work-orders/${a.id}`, { status: 'wykonane' })).status, 403);
     assert.equal((await ewa('POST', `/work-orders/${a.id}/ack`)).status, 403, 'cudzego nie potwierdzi');
     assert.ok((await jan('POST', `/work-orders/${a.id}/ack`)).data.ack_at);
-    assert.equal((await jan('GET', `/projects/${w.pid}`)).status, 200, 'projekt z polecenia jest widoczny dla programisty');
+    assert.equal((await jan('GET', `/projects/${w.pid}`)).status, 403, 'projekty — tylko kierownik; treść polecenia wystarcza programiście');
     assert.equal((await szef('GET', '/work-orders/day?date=2026-10-06')).status, 200);
     assert.equal((await szef('POST', '/work-orders', { employee_id: w.e, work_date: '2026-10-06', title: 'x' })).status, 403);
     assert.equal((await gosc('GET', '/work-orders/day?date=2026-10-06')).status, 403);
     assert.equal((await gosc('GET', '/work-orders/my')).status, 403);
     await adm('PATCH', `/work-orders/${a.id}`, { details: 'Nowa uwaga: oprawka HSK40' });
     assert.equal(w.db.get('SELECT ack_at FROM work_orders WHERE id=?', a.id).ack_at, null, 'zmieniona treść — ponowne potwierdzenie');
-    const today = (await jan('GET', '/today')).data;
-    assert.equal(today.my_orders.length, 1);
+    assert.equal((await jan('GET', '/work-orders/my?from=2026-10-06&to=2026-10-06')).data.length, 1);
   } finally { srv.close(); }
 });

diff --git a/public/views-requests.js b/public/views-requests.js
@@ -18,8 +18,10 @@ function reqWhen(r) {
 
 // ---------- Pracownik: „Zgłoś” ----------
 VIEWS.zglos = async (main) => {
-  const list = await api('/requests');
-  main.innerHTML = head('Zgłoś kierownikowi', 'Zgłoszenie trafia do weryfikacji. Wpis w grafiku lub rozliczeniu powstaje dopiero po decyzji kierownika.') + `
+  const [list, bal] = await Promise.all([api('/requests'), api(`/balances?month=${S.me.today.slice(0, 7)}`).catch(() => [])]);
+  const mine = bal.find(b => b.employee_id === S.me.employee_id);
+  main.innerHTML = head('Zgłoś kierownikowi', 'Zgłoszenie trafia do weryfikacji. Wpis w grafiku lub rozliczeniu powstaje dopiero po decyzji kierownika.') +
+    (mine ? `<p class="notice info small">Moje saldo do odrobienia w ${plMonth(S.me.today.slice(0, 7))}: <b>${hm(mine.remaining_min)}</b> · zmian do końca miesiąca: ${mine.remaining_shifts}</p>` : '') + `
     <div class="cols-2"><section class="panel"><h3>Nowe zgłoszenie</h3>
       <div class="kind-pick" role="radiogroup" aria-label="Rodzaj zgłoszenia">${Object.entries(REQ_KIND).map(([k, [l, ic, hint]]) =>
         `<button type="button" class="kind" data-kind="${k}" role="radio" aria-checked="false">${icon(ic)}<b>${esc(l)}</b><span class="small muted">${esc(hint)}</span></button>`).join('')}</div>

diff --git a/test/analytics-privacy.test.js b/test/analytics-privacy.test.js
@@ -54,9 +54,8 @@ test('analiza: programista, gość i przełożony bez dostępu do danych analizy
     const list = (await szef('GET', '/saved-reports')).data;
     assert.deepEqual(list.map(r => r.title), ['Dla przełożonego'], 'przełożony widzi tylko udostępnione');
     assert.equal((await szef('GET', `/saved-reports/${sid(priv)}`)).status, 404);
-    const pj = (await jan('GET', `/projects/${pid}`)).data;
-    assert.ok(pj.hours, 'programista widzi godziny projektu (ustawienie firmy)');
-    assert.equal(pj.hours.overtime_work_min, undefined, 'ale nie dane o nadgodzinach');
+    assert.equal((await jan('GET', `/projects/${pid}`)).status, 403, 'programista nie widzi projektów');
+    const pj = {};
     assert.equal((await szef('GET', `/projects/${pid}`)).data.hours.overtime_work_min, undefined);
     assert.equal((await adm('GET', `/projects/${pid}`)).data.hours.overtime_work_min, 300);
     assert.equal((await adm('GET', '/analytics/month?ym=2026-10')).status, 200);

diff --git a/public/sw.js b/public/sw.js
@@ -2,7 +2,7 @@
 // Zasada prywatności: w pamięci telefonu przechowywany jest WYŁĄCZNIE szkielet aplikacji (HTML/CSS/JS/ikony).
 // Odpowiedzi API (/api/*) — dane osobowe, absencje, rozliczenia — nigdy nie są buforowane.
 'use strict';
-const VERSION = 'cnc-team-shell-v16';
+const VERSION = 'cnc-team-shell-v18';
 const SHELL = [
   '/', '/index.html', '/tokens.css', '/app.css', '/icons.js', '/brand.js', '/charts.js', '/ui.js', '/app.js', '/views-people.js', '/views-projects.js',
   '/views-reports.js', '/views-requests.js', '/views-analytics.js', '/views-bundles.js', '/views-plan.js', '/pwa.js', '/manifest.webmanifest', '/favicon.svg', '/icons/icon-192.png', '/icons/icon-512.png',
